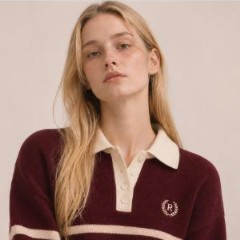
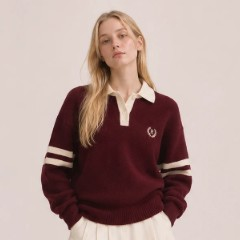
공식채널운영 문제 오른쪽 모델 컷 교체 · 해결 자사몰 유입 라인 그래프 (patch-304)

diff --git a/sns-ops.html b/sns-ops.html
@@ -18,6 +18,7 @@
 <style>
   /* =====================================================================
      [개발 전달] 공식채널운영 (채널마케팅) 페이지 기록 (2026-11-10)
+     · 2026-11-10 patch-304 문제 오른쪽 4줄 썸네일 = 받은 모델 컷으로 교체(ch-meta · ch-insta · ch-fb · ch-store) · 해결 자사몰 유입 수치 칸 오른쪽에 라인 그래프(7일 추이 · 구매만 블루)
      · 2026-11-10 patch-303 히어로 왼쪽 광고 도달 카드 → AI 소재 생성 카드(AI 아이콘 · 3개 · 착용컷 · 무드컷 · 클로즈업) + 왼쪽 사진 생성 연출(반짝 로딩 → 선명 · 6초) · 가운데 창 인스타 ↔ 페이스북 전환 시 앞 화면이 먼저 빠지게(겹침 없음)
      · 2026-11-10 patch-302 문제 영역 왼쪽(기존) 창 회색 바탕(Gray 50 · 테두리 Gray 200 · 담당 칩 흰 바탕) — 오른쪽 개선 화면 강조 (다른 페이지와 같은 규칙)
      · 2026-11-10 patch-301 문제 오른쪽 4줄 썸네일 = 채널별 실제 소재로 새로 생성(메타 광고 · 인스타 피드 · 페이스북 신상 안내 · 자사몰 기획전 배너 · 기존 와인 폴로 촬영컷 첨부 · 작은 칸이라 모델 위주로 자름) · 해결 광고 캠페인 C = 모델 클로즈업 새로 생성(C · 디테일 → C · 클로즈업)
@@ -400,6 +401,14 @@
   .sn-fn strong { font-size: 20px; line-height: 24px; font-weight: 700; color: var(--gray-900); }
   .sn-fn small { margin-left: 2px; font-size: 12px; font-weight: 600; color: var(--gray-500); }
   .sn-fn em { font-style: normal; font-size: 11px; line-height: 14px; color: var(--gray-500); }
+  /* patch-304: 수치 칸 오른쪽 7일 추이 라인 그래프 · 기본 Gray 400 · 구매(봐야 할 곳)만 Primary 600 + 끝점 */
+  .sn-fn li { position: relative; padding-right: 116px; }
+  .sn-sp { position: absolute; right: 16px; top: 50%; width: 88px; height: 32px; margin-top: -16px; overflow: visible; }
+  .sn-sp polyline { fill: none; stroke: var(--gray-400); stroke-width: 2; stroke-linejoin: round; stroke-linecap: round; }
+  .sn-sp.on polyline { stroke: var(--primary-600); }
+  .sn-fn li em { margin-right: -100px; white-space: nowrap; }   /* 설명 글자는 그래프 아래까지 한 줄로 */
+  .sn-sp.on { top: 16px; margin-top: 0; }   /* 구매 칸 = 수치 줄 높이에 맞춰 설명 글자와 겹치지 않게 */
+  .sn-sp circle { fill: var(--primary-600); stroke: var(--white); stroke-width: 1.5; }
 
   @media (prefers-reduced-motion: reduce) {
     .sn-gen img, .sn-gen li.on i, .sn-gen em, .sn-gen li.on span, .sn-gs b, .sn-gs svg, .sn-dots i, .sn-gi::after, .sn-gi img, #geo-hero .sn-sc, .sn-hw .sn-tag, .sn-go, .sn-ck, .sn-gen i::after, .sn-bars div > i, .sn-swap, .sn-ph .sc, .sn-ph .tap, .sn-st2 b { animation: none !important; transition: none !important; }
@@ -583,7 +592,7 @@
         <div class="sr-body"><h3><em class="key">연결</em> SNS에서 만난 고객을 자사몰 구매로 잇습니다</h3><p>게시물과 광고에서 상품 · 이벤트 페이지로 이어지는 경로를 설계하고, 쇼핑몰 데이터로 소재에 쓸 상품과 프로모션을 고릅니다.</p><p class="sr-out">유입된 고객은 온사이트마케팅과 CRM마케팅으로 이어집니다</p><ul class="sr-tags"><li>유입 경로 설계</li><li>상품 · 프로모션 연계</li><li>온사이트 · CRM 연결</li></ul></div>
         <div class="sr-vis vw" aria-hidden="true"><div class="vw-win sn-d3"><div class="vw-hd"><i class="vw-ic"><svg viewBox="0 0 24 24" width="15" height="15" fill="none" stroke="currentColor" stroke-width="2" stroke-linecap="round" stroke-linejoin="round"><path d="M10 14a4 4 0 0 0 5.7 0l3-3a4 4 0 0 0-5.7-5.7l-1 1"/><path d="M14 10a4 4 0 0 0-5.7 0l-3 3a4 4 0 0 0 5.7 5.7l1-1"/></svg></i><b>자사몰 유입</b><span class="vw-m">인스타그램 게시물 → 상품 페이지</span><em class="vw-chip">구매 전환 4.1%</em></div><div class="vw-bd">
           <div class="sn-ph"><div class="sc a"><p class="sn-pb"><img src="assets/common/brand/instagram.svg" alt="">roundweek_official</p><i class="im"><img src="assets/geo/fashion/rw-land-green.webp" alt=""><span class="sn-tag"><i class="sn-shop"><svg viewBox="0 0 24 24" width="12" height="12" fill="none" stroke="currentColor" stroke-width="2.2" stroke-linecap="round" stroke-linejoin="round"><path d="M5 8h14l-1.2 11.2a1 1 0 0 1-1 .8H7.2a1 1 0 0 1-1-.8z"/><path d="M9 10V7a3 3 0 0 1 6 0v3"/></svg></i>크루 스웨트<em>›</em></span><s class="tap"></s></i><p class="sn-pm"><svg viewBox="0 0 24 24" width="10" height="10" fill="none" stroke="currentColor" stroke-width="2.4" stroke-linecap="round" stroke-linejoin="round"><path d="M12 20s-7-4.4-7-10a4 4 0 0 1 7-2.6A4 4 0 0 1 19 10c0 5.6-7 10-7 10z"/></svg>1,284 · 댓글 86</p></div><div class="sc b"><i class="im"><img src="assets/geo/fashion/rw-model-green.webp" alt=""></i><p class="nm">겨울 크루 스웨트 그린</p><p class="pr">59,000원</p><span class="buy">구매하기</span></div></div>
-          <ul class="sn-fn"><li><span>상품 태그 클릭</span><strong>1,240<small>회</small></strong></li><li><span>상품 페이지 유입</span><strong>980<small>명</small></strong></li><li class="hl"><span>구매</span><strong>41<small>건</small></strong><em>온사이트 · CRM 으로 이어짐</em></li></ul></div></div></div>
+          <ul class="sn-fn"><li><span>상품 태그 클릭</span><strong>1,240<small>회</small></strong><svg class="sn-sp" viewBox="0 0 88 32" aria-hidden="true"><polyline points="0,26 15,22 29,24 44,17 58,19 73,11 88,8"/></svg></li><li><span>상품 페이지 유입</span><strong>980<small>명</small></strong><svg class="sn-sp" viewBox="0 0 88 32" aria-hidden="true"><polyline points="0,27 15,25 29,21 44,22 58,16 73,14 88,10"/></svg></li><li class="hl"><span>구매</span><strong>41<small>건</small></strong><em>온사이트 · CRM 으로 이어짐</em><svg class="sn-sp on" viewBox="0 0 88 32" aria-hidden="true"><polyline points="0,28 15,26 29,23 44,24 58,17 73,12 88,6"/><circle cx="88" cy="6" r="3"/></svg></li></ul></div></div></div>
       </li>
     </ol>
   </div>
